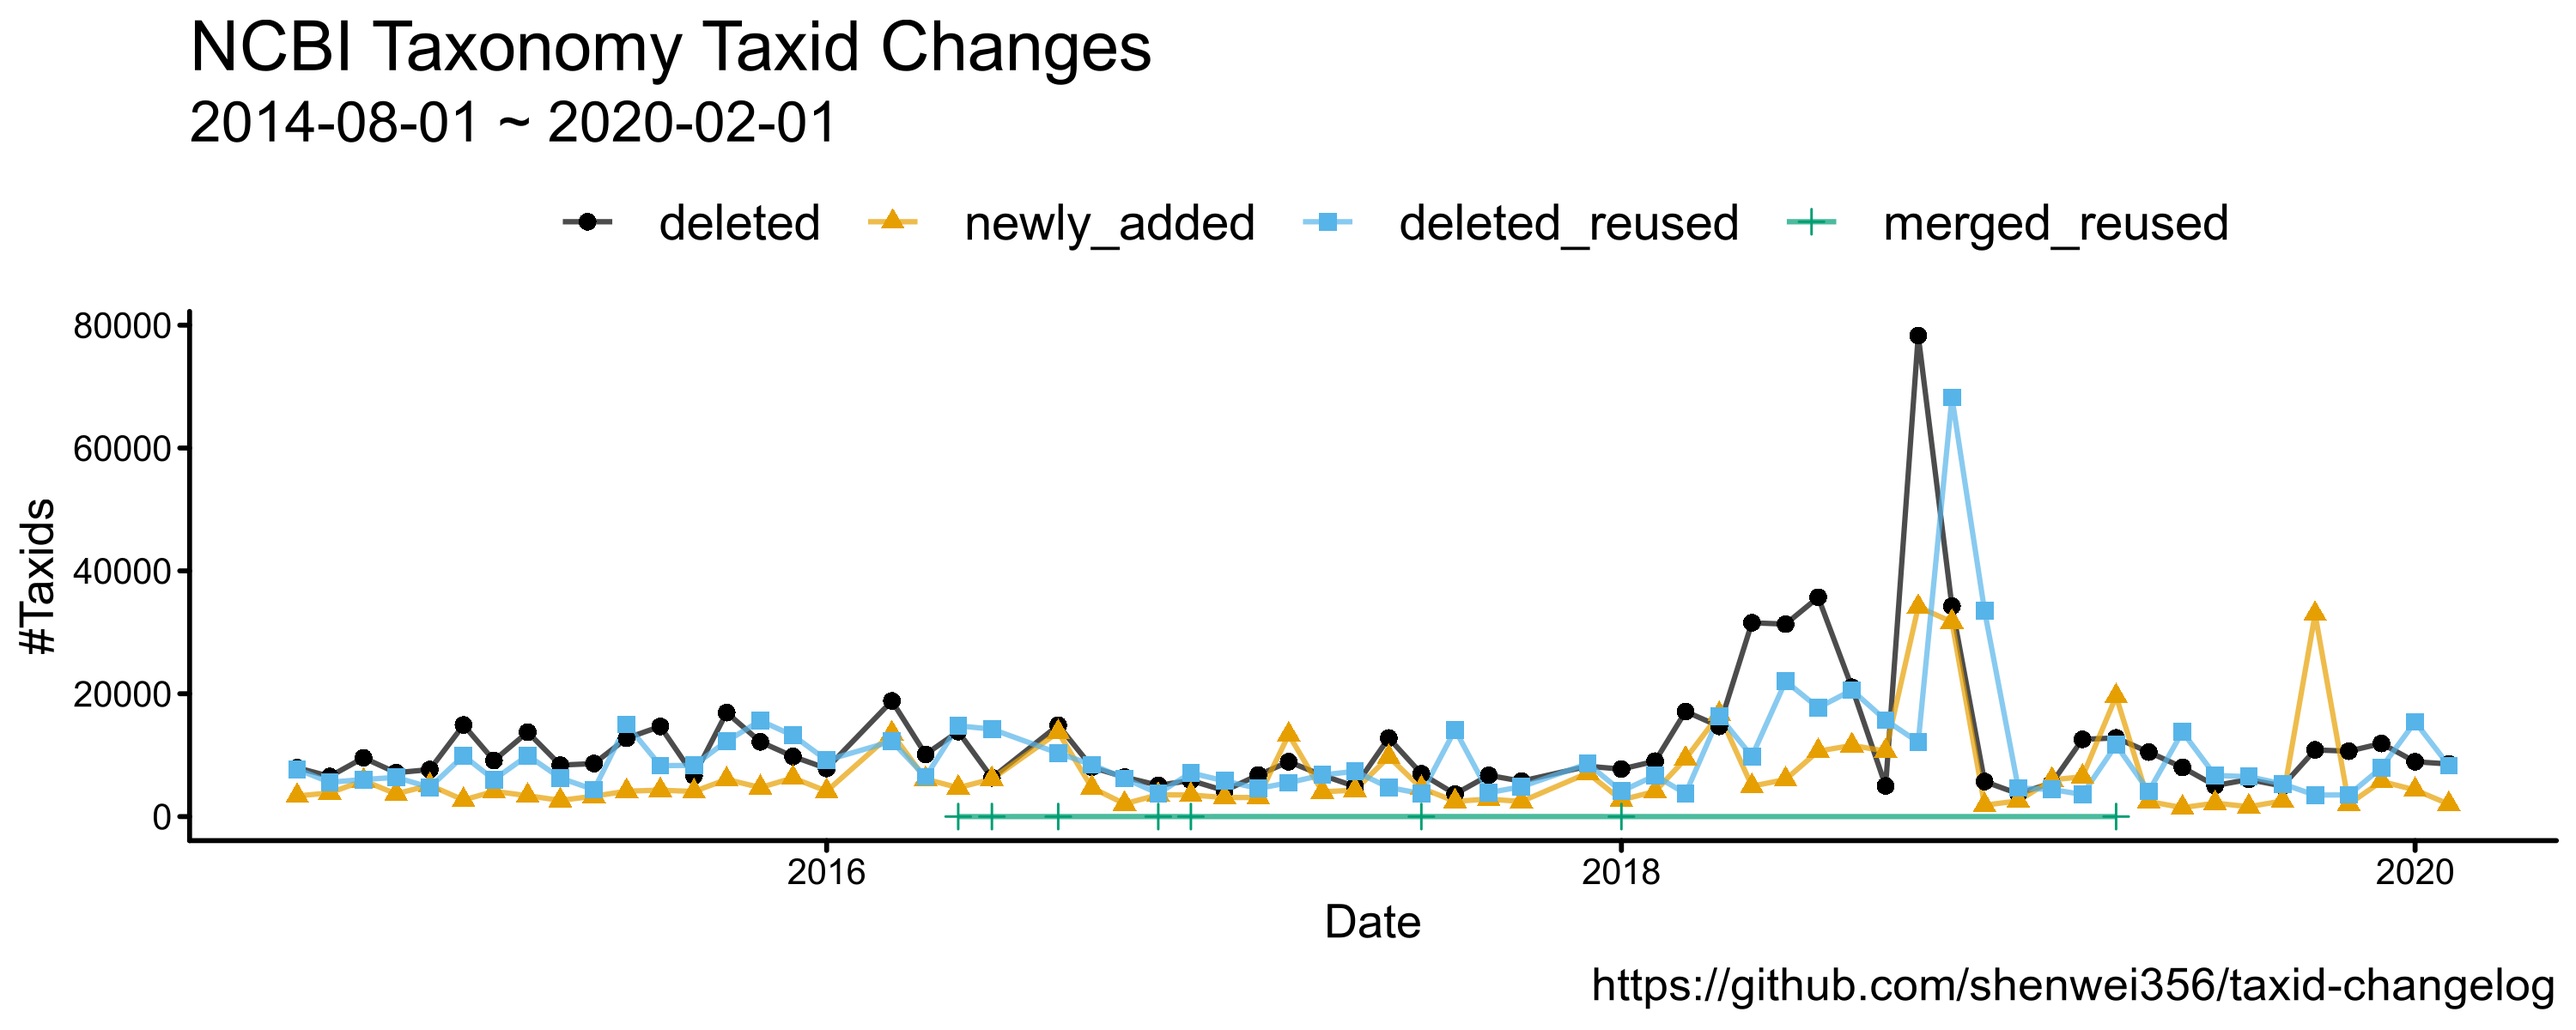
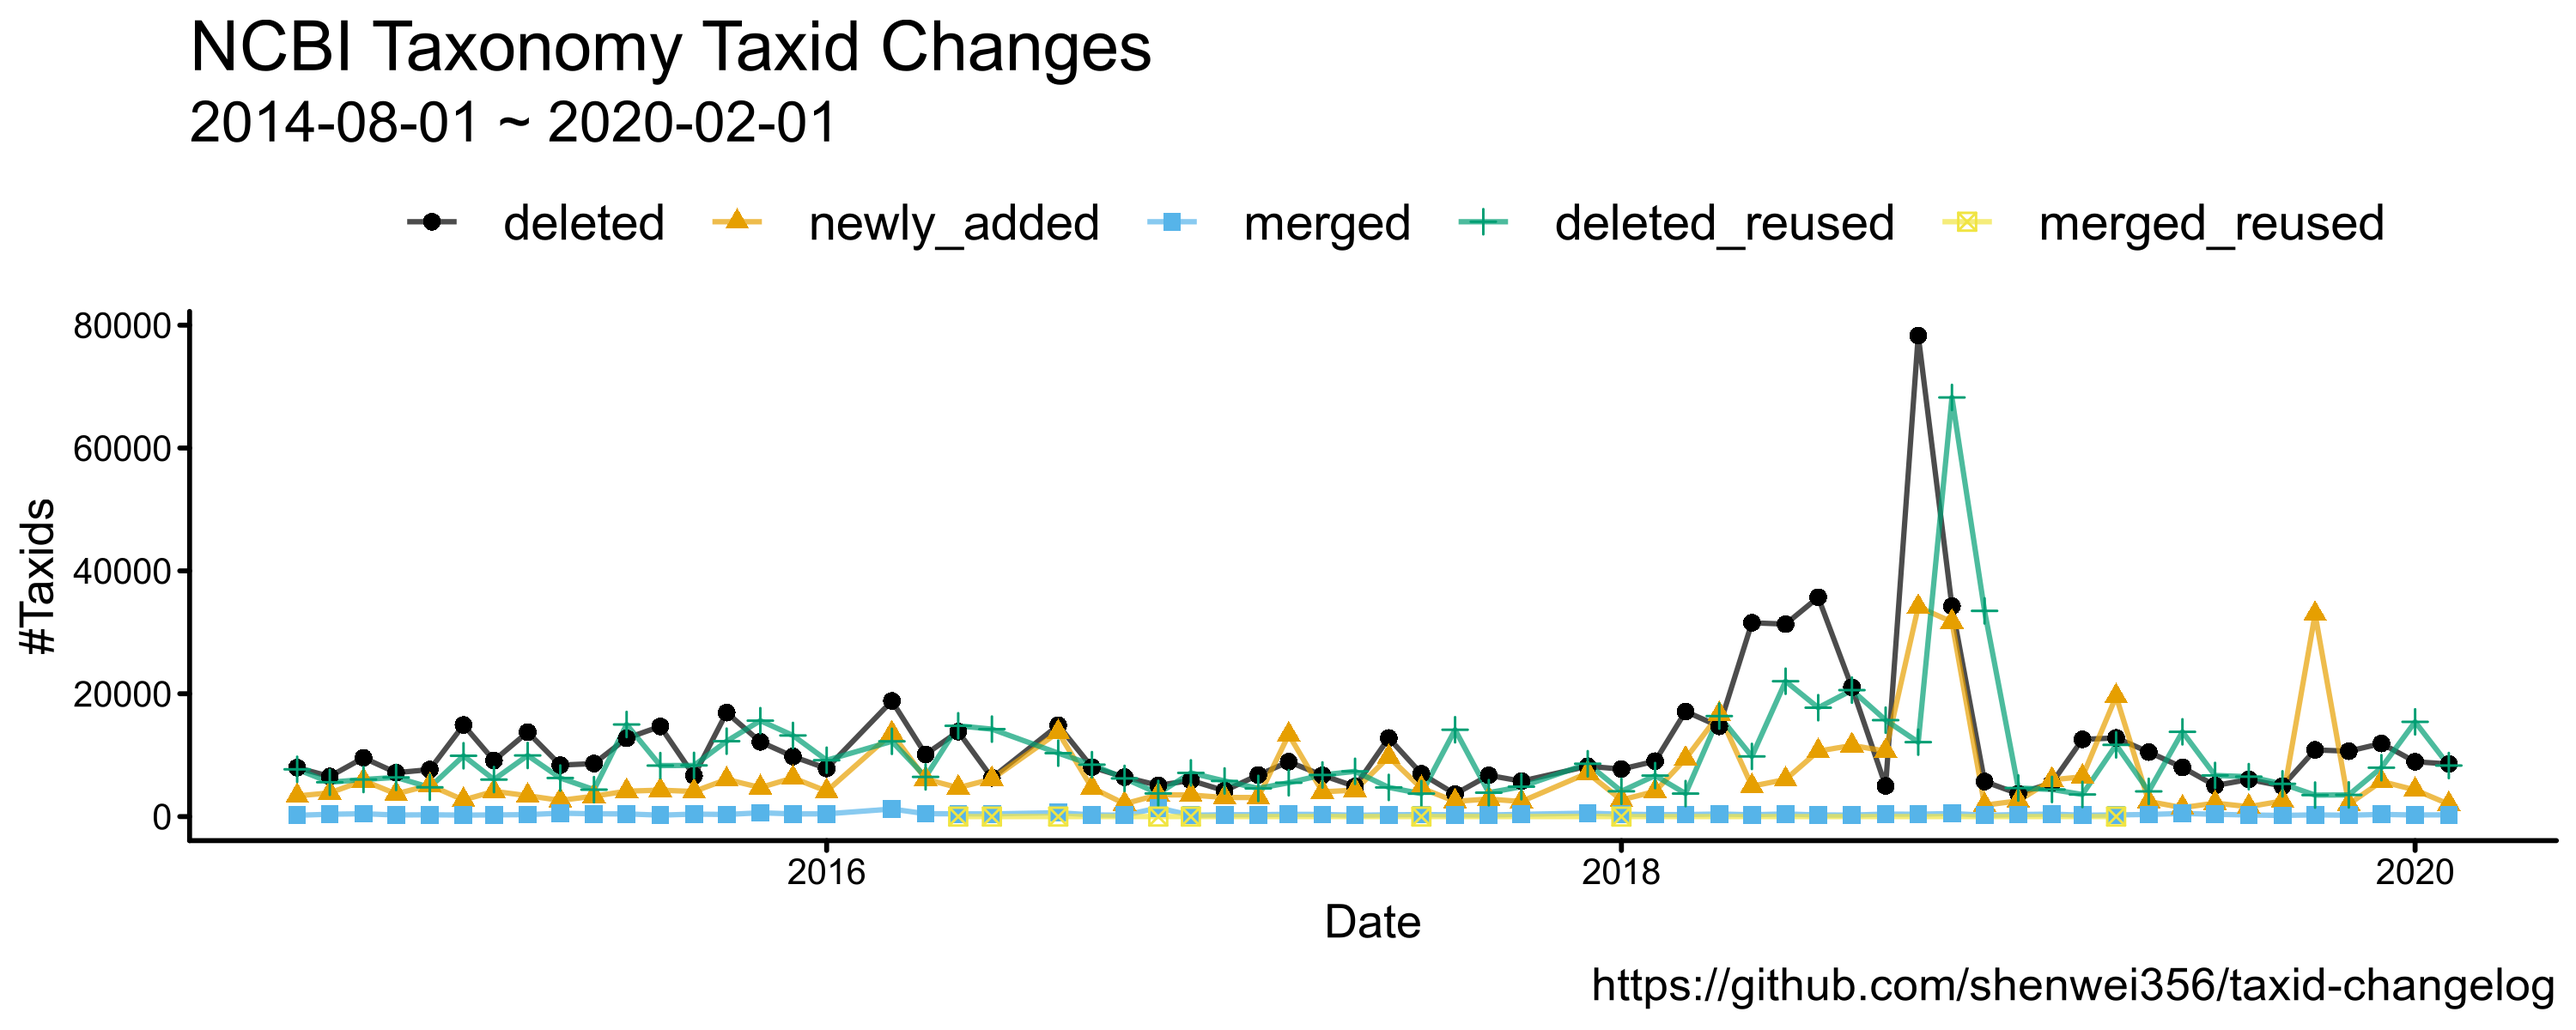
figure,add new colum merged

diff --git a/README.md b/README.md
@@ -133,79 +133,82 @@ Stats:
         | csvtk grep -f change -p NEW \
         | csvtk freq -f version) \
         <(pigz -cd taxid-changelog.csv.gz \
+        | csvtk grep -f change -p MERGE \
+        | csvtk freq -f version) \
+        <(pigz -cd taxid-changelog.csv.gz \
         | csvtk grep -f change -p REUSE_DEL \
         | csvtk freq -f version) \
         <(pigz -cd taxid-changelog.csv.gz \
         | csvtk grep -f change -p REUSE_MER \
         | csvtk freq -f version) \
-        | csvtk rename -f -1 -n deleted,newly-added,deleted-reused,merged-reused \
+        | csvtk rename -f -1 -n deleted,newly_added,merged,deleted_reused,merged_reused \
         | csvtk pretty
     
-    version      deleted   newly-added   deleted-reused   merged-reused
-    2014-08-01   310603    1184830                        
-    2014-09-01   7957      3362          7694             
-    2014-10-01   6535      3856          5590             
-    2014-11-01   9568      5849          6037             
-    2014-12-01   7147      3699          6378             
-    2015-01-01   7650      5104          4762             
-    2015-02-01   14911     2699          9900             
-    2015-03-01   9123      4117          6025             
-    2015-04-01   13748     3398          9951             
-    2015-05-01   8381      2639          6279             
-    2015-06-01   8629      3320          4385             
-    2015-07-01   12746     4140          14992            
-    2015-08-01   14680     4300          8300             
-    2015-09-01   6646      4083          8330             
-    2015-10-01   16933     6052          12273            
-    2015-11-01   12169     4727          15613            
-    2015-12-01   9782      6298          13206            
-    2016-01-01   7834      4133          9175             
-    2016-03-01   18825     13532         12250            
-    2016-04-01   10135     6106          6461             
-    2016-05-01   13835     4704          14778            1
-    2016-06-01   6303      6110          14237            1
-    2016-08-01   14866     13730         10324            2
-    2016-09-01   8033      4683          8450             
-    2016-10-01   6420      2084          6213             
-    2016-11-01   5097      3548          3765             2
-    2016-12-01   5881      3517          7113             1
-    2017-01-01   4208      3102          5800             
-    2017-02-01   6762      3108          4588             
-    2017-03-01   8929      13341         5509             
-    2017-04-01   6721      4026          6778             
-    2017-05-01   4904      4306          7364             
-    2017-06-01   12789     9715          4746             
-    2017-07-01   6974      4622          3735             3
-    2017-08-01   3669      2483          14135            
-    2017-09-01   6716      2853          3892             
-    2017-10-01   5766      2451          4865             
-    2017-12-01   8194      7087          8602             
-    2018-01-01   7732      2711          4123             1
-    2018-02-01   9020      4106          6676             
-    2018-03-01   17113     9415          3743             
-    2018-04-01   14688     16683         16358            
-    2018-05-01   31551     4950          9794             
-    2018-06-01   31336     6040          22034            
-    2018-07-01   35696     10657         17726            
-    2018-08-01   21046     11585         20586            
-    2018-09-01   4992      10658         15697            
-    2018-10-01   78319     34128         12118            
-    2018-11-01   34245     31692         68228            
-    2018-12-01   5699      1856          33487            
-    2019-01-01   3722      2562          4653             
-    2019-02-01   5488      5990          4411             
-    2019-03-01   12567     6473          3598             
-    2019-04-01   12807     19580         11672            1
-    2019-05-01   10502     2453          4103             
-    2019-06-01   8008      1458          13797            
-    2019-07-01   5050      2192          6695             
-    2019-08-01   6041      1611          6501             
-    2019-09-01   4975      2541          5328             
-    2019-10-01   10854     32970         3497             
-    2019-11-01   10648     2025          3530
-    2019-12-01   11905     5727          7961             
-    2020-01-01   8928      4337          15423            
-    2020-02-01   8566      2024          8309
+    version      deleted   newly_added   merged   deleted_reused   merged_reused
+    2014-08-01   310603    1184830       33153                     
+    2014-09-01   7957      3362          211      7694             
+    2014-10-01   6535      3856          381      5590             
+    2014-11-01   9568      5849          463      6037             
+    2014-12-01   7147      3699          255      6378             
+    2015-01-01   7650      5104          295      4762             
+    2015-02-01   14911     2699          240      9900             
+    2015-03-01   9123      4117          273      6025             
+    2015-04-01   13748     3398          316      9951             
+    2015-05-01   8381      2639          554      6279             
+    2015-06-01   8629      3320          447      4385             
+    2015-07-01   12746     4140          438      14992            
+    2015-08-01   14680     4300          232      8300             
+    2015-09-01   6646      4083          404      8330             
+    2015-10-01   16933     6052          342      12273            
+    2015-11-01   12169     4727          620      15613            
+    2015-12-01   9782      6298          436      13206            
+    2016-01-01   7834      4133          446      9175             
+    2016-03-01   18825     13532         1230     12250            
+    2016-04-01   10135     6106          469      6461             
+    2016-05-01   13835     4704          449      14778            1
+    2016-06-01   6303      6110          434      14237            1
+    2016-08-01   14866     13730         633      10324            2
+    2016-09-01   8033      4683          273      8450             
+    2016-10-01   6420      2084          219      6213             
+    2016-11-01   5097      3548          1419     3765             2
+    2016-12-01   5881      3517          219      7113             1
+    2017-01-01   4208      3102          298      5800             
+    2017-02-01   6762      3108          310      4588             
+    2017-03-01   8929      13341         371      5509             
+    2017-04-01   6721      4026          347      6778             
+    2017-05-01   4904      4306          217      7364             
+    2017-06-01   12789     9715          287      4746             
+    2017-07-01   6974      4622          329      3735             3
+    2017-08-01   3669      2483          285      14135            
+    2017-09-01   6716      2853          253      3892             
+    2017-10-01   5766      2451          369      4865             
+    2017-12-01   8194      7087          564      8602             
+    2018-01-01   7732      2711          382      4123             1
+    2018-02-01   9020      4106          325      6676             
+    2018-03-01   17113     9415          326      3743             
+    2018-04-01   14688     16683         422      16358            
+    2018-05-01   31551     4950          292      9794             
+    2018-06-01   31336     6040          430      22034            
+    2018-07-01   35696     10657         260      17726            
+    2018-08-01   21046     11585         246      20586            
+    2018-09-01   4992      10658         404      15697            
+    2018-10-01   78319     34128         384      12118            
+    2018-11-01   34245     31692         509      68228            
+    2018-12-01   5699      1856          210      33487            
+    2019-01-01   3722      2562          330      4653             
+    2019-02-01   5488      5990          404      4411             
+    2019-03-01   12567     6473          219      3598             
+    2019-04-01   12807     19580         271      11672            1
+    2019-05-01   10502     2453          345      4103             
+    2019-06-01   8008      1458          509      13797            
+    2019-07-01   5050      2192          371      6695             
+    2019-08-01   6041      1611          256      6501             
+    2019-09-01   4975      2541          191      5328             
+    2019-10-01   10854     32970         278      3497             
+    2019-11-01   10648     2025          223      3530             
+    2019-12-01   11905     5727          351      7961             
+    2020-01-01   8928      4337          262      15423            
+    2020-02-01   8566      2024          292      8309 
     
 [The paper of NCBI Taxonomy database](https://www.ncbi.nlm.nih.gov/pmc/articles/PMC3245000/):
 

diff --git a/stats/README.md b/stats/README.md
@@ -8,16 +8,19 @@
         | csvtk grep -f change -p NEW \
         | csvtk freq -f version) \
         <(pigz -cd taxid-changelog.csv.gz \
+        | csvtk grep -f change -p MERGE \
+        | csvtk freq -f version) \
+        <(pigz -cd taxid-changelog.csv.gz \
         | csvtk grep -f change -p REUSE_DEL \
         | csvtk freq -f version) \
         <(pigz -cd taxid-changelog.csv.gz \
         | csvtk grep -f change -p REUSE_MER \
         | csvtk freq -f version) \
-        | csvtk rename -f -1 -n deleted,newly_added,deleted_reused,merged_reused \
+        | csvtk rename -f -1 -n deleted,newly_added,merged,deleted_reused,merged_reused \
         > changes.csv
         
     cat changes.csv \
-        | csvtk gather -k types -v count -f 2-5 \
+        | csvtk gather -k types -v count -f 2-6 \
         > changes.g.csv
         
     ./plot.R
